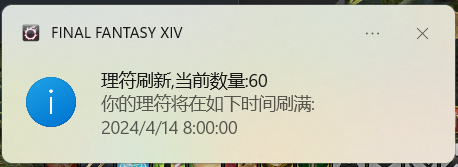
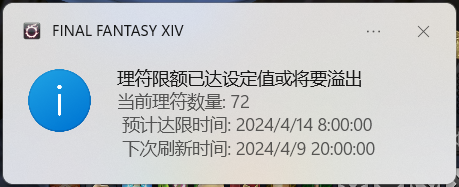
重写理符提醒

diff --git a/DailyRoutines/Modules/Notice/AutoNotifyLeveUpdate.cs b/DailyRoutines/Modules/Notice/AutoNotifyLeveUpdate.cs
@@ -4,27 +4,27 @@ using DailyRoutines.Infos;
 using DailyRoutines.Managers;
 using Dalamud.Plugin.Services;
 using ECommons.Throttlers;
+using FFXIVClientStructs.FFXIV.Client.Game;
 using ImGuiNET;
 
 namespace DailyRoutines.Modules;
 
 [ModuleDescription("AutoNotifyLeveUpdateTitle", "AutoNotifyLeveUpdateDescription", ModuleCategories.Notice)]
-public class AutoNotifyLeveUpdate : DailyModuleBase
+public unsafe class AutoNotifyLeveUpdate : DailyModuleBase
 {
     public override string? Author { get; set; } = "HSS";
-    private const string LeveSigScanner = "88 05 ?? ?? ?? ?? 0F B7 41 06";
     private static DateTime nextLeveCheck = DateTime.MinValue;
-    private static DateTime finishTime = DateTime.Now;
-    private static int lastLeve;
+    private static DateTime finishTime = DateTime.UtcNow;
+    private static int lastLeve = 0;
     private static bool OnChatMessage;
-    private static bool JustFull;
+    private static int NotificationThreshold;
 
     public override void Init()
     {
         AddConfig(this, "OnChatMessage", true);
-        AddConfig(this, "JustFull", true);
+        AddConfig(this, "NotificationThreshold", 97);
         OnChatMessage = GetConfig<bool>(this, "OnChatMessage");
-        JustFull = GetConfig<bool>(this, "JustFull");
+        NotificationThreshold = GetConfig<int>(this, "NotificationThreshold");
         Service.Framework.Update += OnFrameworkLeve;
     }
 
@@ -34,115 +34,82 @@ public class AutoNotifyLeveUpdate : DailyModuleBase
                                  "https://mirror.ghproxy.com/https://raw.githubusercontent.com/AtmoOmen/DailyRoutines/main/imgs/AutoNotifyLeveUpdate-1.png");
 
         ImGui.Spacing();
-
-        ImGui.Text(lastLeve == 100
-                       ? Service.Lang.GetText("AutoNotifyLeveUpdate-NotificationFullText")
-                       : $"{Service.Lang.GetText("AutoNotifyLeveUpdate-NotificationText")}{finishTime.ToString(CultureInfo.CurrentCulture)}");
-
-        ImGui.Text($"{Service.Lang.GetText("AutoNotifyLeveUpdate-LeveUpdateTimeText")}{nextLeveCheck}");
+        ImGui.Text($"{Service.Lang.GetText("AutoNotifyLeveUpdate-NumText")}{lastLeve}");
+        ImGui.Text($"{Service.Lang.GetText("AutoNotifyLeveUpdate-FullTimeText")}{finishTime.ToLocalTime().ToString(CultureInfo.CurrentCulture)}");
+        ImGui.Text($"{Service.Lang.GetText("AutoNotifyLeveUpdate-UpdateTimeText")}{nextLeveCheck.ToLocalTime().ToString(CultureInfo.CurrentCulture)}");
 
         if (ImGui.Checkbox(Service.Lang.GetText("AutoNotifyLeveUpdate-OnChatMessageConfig"),
                            ref OnChatMessage))
             UpdateConfig(this, "OnChatMessage", OnChatMessage);
-        if (ImGui.Checkbox(Service.Lang.GetText("AutoNotifyLeveUpdate-JustFullConfig"),
-                           ref JustFull))
-            UpdateConfig(this, "JustFull", JustFull);
+
+        if (ImGui.SliderInt(Service.Lang.GetText("AutoNotifyLeveUpdate-NotificationThreshold"), ref NotificationThreshold, 1, 100))
+        {
+            lastLeve = 0;
+            UpdateConfig(this, "NotificationThreshold", NotificationThreshold);
+        }
+
+
     }
 
     private static void OnFrameworkLeve(IFramework _)
     {
         if (!EzThrottler.Throttle("AutoNotifyLeveUpdate", 5000)) return;
-        if (Service.ClientState.LocalPlayer == null)
+        if (Service.ClientState.LocalPlayer == null || !Service.ClientState.IsLoggedIn)
             return;
-        var firstFlag = nextLeveCheck == DateTime.MinValue;
-        var tempLastLeve = lastLeve;
-        var now = DateTime.Now;
-        var leves = Leves(Service.SigScanner.GetStaticAddressFromSig(LeveSigScanner));
-        leves = leves < 0 ? 0 : leves > 100 ? 100 : leves;
-        lastLeve = leves;
-        if (leves == tempLastLeve && tempLastLeve != 100) return;
-        var needDay = DaysToReachHundred(leves, now.TimeOfDay);
-        finishTime = now.AddDays(needDay);
-        if (finishTime.TimeOfDay >= TimeSpan.FromHours(20))
-            finishTime = new DateTime(finishTime.Year, finishTime.Month, finishTime.Day, 20, 0, 0);
-        else if (finishTime.TimeOfDay >= TimeSpan.FromHours(8))
-            finishTime = new DateTime(finishTime.Year, finishTime.Month, finishTime.Day, 8, 0, 0);
-        else
-            finishTime = new DateTime(finishTime.Year, finishTime.Month, finishTime.Day - 1, 20, 0, 0);
-        if (tempLastLeve <= leves)
+        var NowUtc = DateTime.UtcNow;
+        var leveAllowances = QuestManager.Instance()->NumLeveAllowances;
+        if (!lastLeve.Equals(leveAllowances))
         {
-            if (leves >= 97)
+            var decreasing = leveAllowances > lastLeve;
+            lastLeve = QuestManager.Instance()->NumLeveAllowances;
+            nextLeveCheck = MathNextTime(NowUtc);
+            finishTime = MathFinishTime(leveAllowances, NowUtc);
+
+            if (leveAllowances >= NotificationThreshold && decreasing)
             {
-                //理符要溢出或满的时候,只在刚上线和刷新五分钟前提醒
-                if (nextLeveCheck <= now.AddMinutes(5) || firstFlag)
+                if (OnChatMessage)
                 {
-                    if (OnChatMessage)
-                    {
-                        Service.Chat.Print($"{Service.Lang.GetText("AutoNotifyLeveUpdate-NotificationTitle")}{leves}" +
-                                           $"\n {Service.Lang.GetText("AutoNotifyLeveUpdate-NotificationFullText")}" +
-                                           $"\n {Service.Lang.GetText("AutoNotifyLeveUpdate-LeveUpdateTimeText")}{nextLeveCheck.ToString(CultureInfo.CurrentCulture)}");
-                    }
-
-                    finishTime = now;
-                    Service.Notice.Notify($"{Service.Lang.GetText("AutoNotifyLeveUpdate-NotificationTitle")}{leves}",
-                                          Service.Lang.GetText("AutoNotifyLeveUpdate-NotificationFullText"));
-                    return;
+                    Service.Chat.Print($"{Service.Lang.GetText("AutoNotifyLeveUpdate-NotificationTitle")}" +
+                                       $"\n {Service.Lang.GetText("AutoNotifyLeveUpdate-NumText")}{leveAllowances}" +
+                                       $"\n {Service.Lang.GetText("AutoNotifyLeveUpdate-FullTimeText")}{finishTime.ToLocalTime().ToString(CultureInfo.CurrentCulture)}" +
+                                       $"\n {Service.Lang.GetText("AutoNotifyLeveUpdate-UpdateTimeText")}{nextLeveCheck.ToLocalTime().ToString(CultureInfo.CurrentCulture)}");
                 }
-            }
 
-            if (JustFull) return;
-            if (OnChatMessage)
-            {
-                Service.Chat.Print(
-                    $"\n {Service.Lang.GetText("AutoNotifyLeveUpdate-NotificationText")}{finishTime.ToString(CultureInfo.CurrentCulture)}" +
-                    $"\n {Service.Lang.GetText("AutoNotifyLeveUpdate-LeveUpdateTimeText")}{nextLeveCheck.ToString(CultureInfo.CurrentCulture)}");
+                Service.Notice.Notify($"{Service.Lang.GetText("AutoNotifyLeveUpdate-NotificationTitle")}",
+                                      $"{Service.Lang.GetText("AutoNotifyLeveUpdate-NumText")}{leveAllowances}" +
+                                      $"\n {Service.Lang.GetText("AutoNotifyLeveUpdate-FullTimeText")}{finishTime.ToLocalTime().ToString(CultureInfo.CurrentCulture)}" +
+                                      $"\n {Service.Lang.GetText("AutoNotifyLeveUpdate-UpdateTimeText")}{nextLeveCheck.ToLocalTime().ToString(CultureInfo.CurrentCulture)}");
             }
-
-            if (firstFlag) return;
-            Service.Notice.Notify($"{Service.Lang.GetText("AutoNotifyLeveUpdate-NotificationTitle")}{leves}",
-                                  $"{Service.Lang.GetText("AutoNotifyLeveUpdate-NotificationText")}\n{finishTime.ToString(CultureInfo.CurrentCulture)}");
         }
     }
 
-    private static unsafe int Leves(IntPtr address)
+    private static DateTime MathNextTime(DateTime NowUtc)
     {
-        if (address != IntPtr.Zero)
-            return *(byte*)address;
-
-        return -1;
-    }
-
-    private static int DaysToReachHundred(int currentCount, TimeSpan currentTime)
-    {
-        var now = DateTime.Now;
-        const int dailyIncrement = 6;
-
-        var incrementToday = 0;
-
-        if (currentTime >= TimeSpan.FromHours(20))
+        if (NowUtc.Hour >= 12)
         {
-            nextLeveCheck = new DateTime(now.Year, now.Month, now.Day + 1, 8, 0, 0);
-            incrementToday += 6;
-        }
-        else if (currentTime >= TimeSpan.FromHours(8))
-        {
-            nextLeveCheck = new DateTime(now.Year, now.Month, now.Day, 20, 0, 0);
-            incrementToday += 3;
+            return new DateTime(NowUtc.Year, NowUtc.Month, NowUtc.Day + 1, 0, 0, 0, DateTimeKind.Utc);
         }
         else
         {
-            nextLeveCheck = new DateTime(now.Year, now.Month, now.Day, 8, 0, 0);
+            return new DateTime(NowUtc.Year, NowUtc.Month, NowUtc.Day, 12, 0, 0, DateTimeKind.Utc);
         }
+    }
 
 
-        var remaining = 100 - currentCount - incrementToday;
-
-        if (remaining <= 0)
-            return 0;
-
-        var daysNeeded = (int)Math.Ceiling((double)remaining / dailyIncrement);
-
-        return daysNeeded;
+    private static DateTime MathFinishTime(int num, DateTime NowUtc)
+    {
+        if (num >= 100)
+        {
+            return NowUtc;
+        }
+        var requiredIncrements = 100 - num;
+        var requiredPeriods = requiredIncrements / 3;
+        if (requiredIncrements % 3 > 0)
+        {
+            requiredPeriods++;
+        }
+        var lastIncrementTimeUtc = new DateTime(NowUtc.Year, NowUtc.Month, NowUtc.Day, NowUtc.Hour >= 12 ? 12 : 0, 0, 0, DateTimeKind.Utc);
+        return lastIncrementTimeUtc.AddHours(12 * requiredPeriods);
     }
 
     public override void Uninit()
